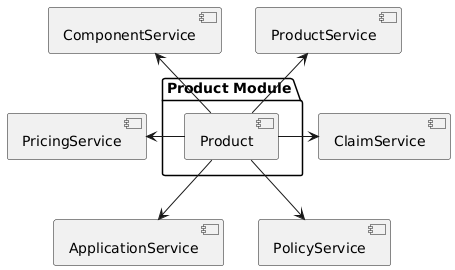
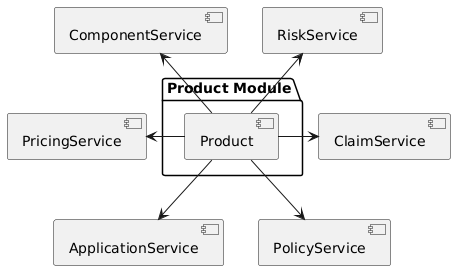
fix hh deployment, fix product component diagram

diff --git a/scripts/libs/services.ts b/scripts/libs/services.ts
@@ -13,7 +13,7 @@ import {
     PolicyService, PolicyServiceManager, PolicyService__factory,
     PoolService, PoolServiceManager, PoolService__factory,
     PricingService, PricingServiceManager, PricingService__factory,
-    ProductService, ProductServiceManager, ProductService__factory,
+    RiskService, RiskServiceManager, RiskService__factory,
     RegistryService,
     RegistryServiceManager,
     RegistryService__factory,
@@ -64,10 +64,10 @@ export type ServiceAddresses = {
     poolService: PoolService,
     poolServiceManagerAddress: AddressLike,
 
-    productServiceNftId: string,
-    productServiceAddress: AddressLike,
-    productService: ProductService,
-    productServiceManagerAddress: AddressLike,
+    riskServiceNftId: string,
+    riskServiceAddress: AddressLike,
+    riskService: RiskService,
+    riskServiceManagerAddress: AddressLike,
 
     applicationServiceNftId : string,
     applicationServiceAddress: AddressLike,
@@ -480,8 +480,8 @@ export async function deployAndRegisterServices(owner: Signer, registry: Registr
     logger.info(`oracleServiceManager deployed - oracleServiceAddress: ${oracleServiceAddress} oracleServiceManagerAddress: ${oracleServiceManagerAddress} nftId: ${oracleServiceNftId}`);
 
     logger.info("-------- product service --------");
-    const { address: productServiceManagerAddress, contract: productServiceManagerBaseContract, } = await deployContract(
-        "ProductServiceManager",
+    const { address: riskServiceManagerAddress, contract: riskServiceManagerBaseContract, } = await deployContract(
+        "RiskServiceManager",
         owner,
         [
             authority,
@@ -497,28 +497,28 @@ export async function deployAndRegisterServices(owner: Signer, registry: Registr
                 VersionPartLib: libraries.versionPartLibAddress, 
             }});
 
-    const productServiceManager = productServiceManagerBaseContract as ProductServiceManager;
-    const productServiceAddress = await productServiceManager.getProductService();
-    const productService = ProductService__factory.connect(productServiceAddress, owner);
+    const riskServiceManager = riskServiceManagerBaseContract as RiskServiceManager;
+    const riskServiceAddress = await riskServiceManager.getRiskService();
+    const riskService = RiskService__factory.connect(riskServiceAddress, owner);
 
     // verify service implementation 
     prepareVerificationData(
-        "ProductService", 
-        await getImplementationAddress(hhEthers.provider, await productServiceManager.getProxy()), 
+        "RiskService", 
+        await getImplementationAddress(hhEthers.provider, await riskServiceManager.getProxy()), 
         [], 
         undefined);
 
     const rcptPrd = await executeTx(
-        async () => await releaseRegistry.registerService(productServiceAddress, getTxOpts()),
-        "registerService - productService"
+        async () => await releaseRegistry.registerService(riskServiceAddress, getTxOpts()),
+        "registerService - riskService"
     );
     const logRegistrationInfoPrd = getFieldFromTxRcptLogs(rcptPrd!, registry.registry.interface, "LogRegistration", "nftId");
-    const productServiceNftId = (logRegistrationInfoPrd as unknown);
+    const riskServiceNftId = (logRegistrationInfoPrd as unknown);
     await executeTx(
-        async () => await productServiceManager.linkToProxy(getTxOpts()),
-        "linkToProxy - productService"
+        async () => await riskServiceManager.linkToProxy(getTxOpts()),
+        "linkToProxy - riskService"
     );
-    logger.info(`productServiceManager deployed - productServiceAddress: ${productServiceAddress} productServiceManagerAddress: ${productServiceManagerAddress} nftId: ${productServiceNftId}`);
+    logger.info(`riskServiceManager deployed - riskServiceAddress: ${riskServiceAddress} riskServiceManagerAddress: ${riskServiceManagerAddress} nftId: ${riskServiceNftId}`);
 
     logger.info("-------- claim service --------");
     const { address: claimServiceManagerAddress, contract: claimServiceManagerBaseContract, } = await deployContract(
@@ -694,10 +694,10 @@ export async function deployAndRegisterServices(owner: Signer, registry: Registr
         poolService: poolService,
         poolServiceManagerAddress: poolServiceManagerAddress,
 
-        productServiceNftId: productServiceNftId as string,
-        productServiceAddress: productServiceAddress,
-        productService: productService,
-        productServiceManagerAddress: productServiceManagerAddress,
+        riskServiceNftId: riskServiceNftId as string,
+        riskServiceAddress: riskServiceAddress,
+        riskService: riskService,
+        riskServiceManagerAddress: riskServiceManagerAddress,
 
         applicationServiceNftId: applicationServiceNftId as string,
         applicationServiceAddress: applicationServiceAddress,
